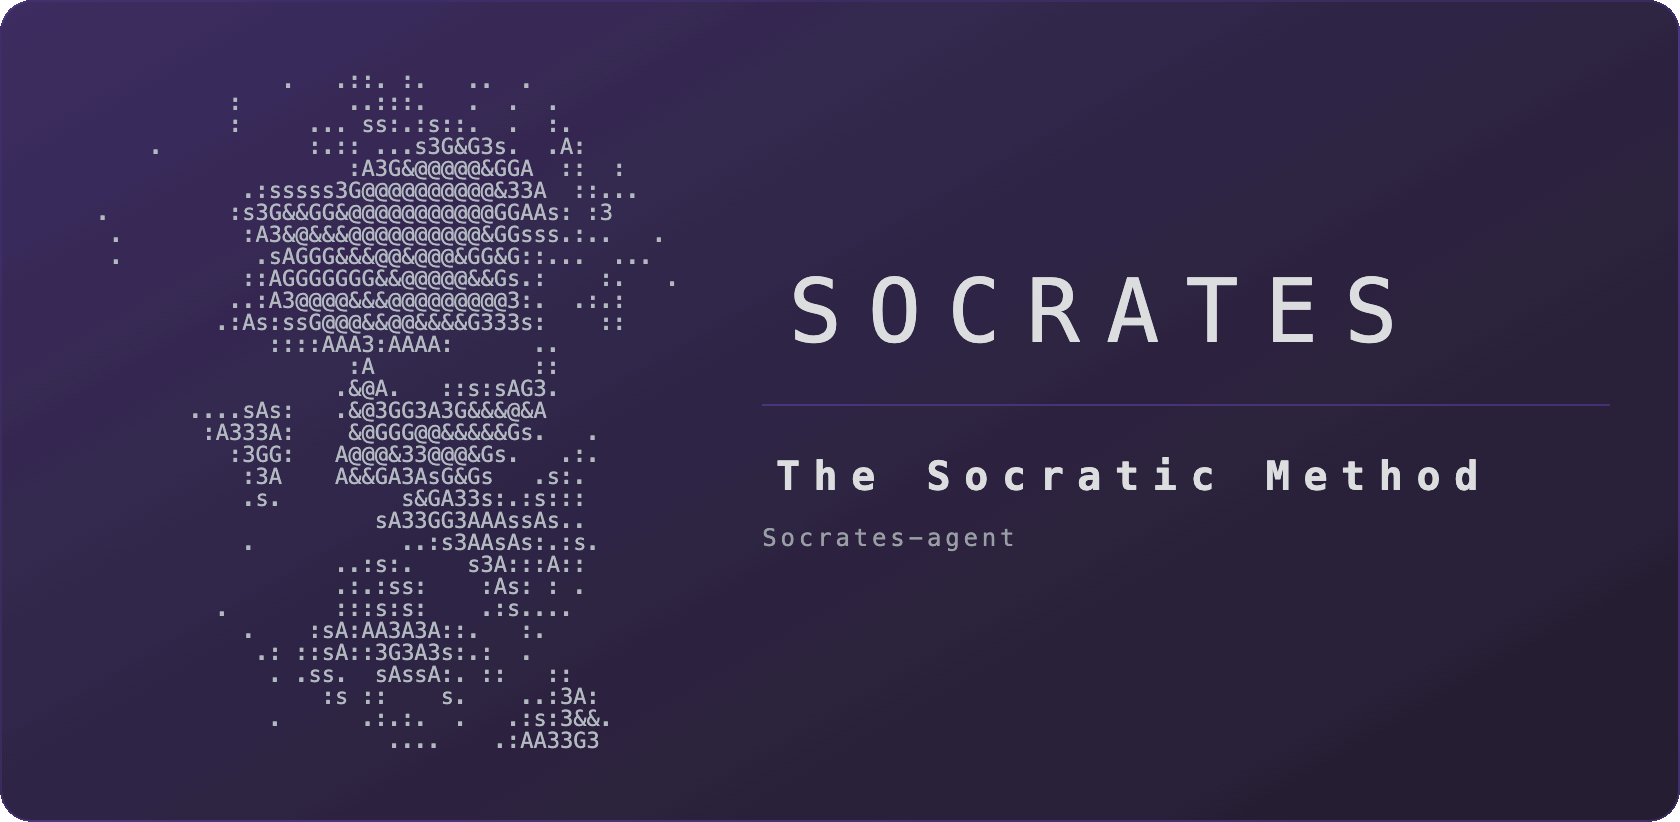
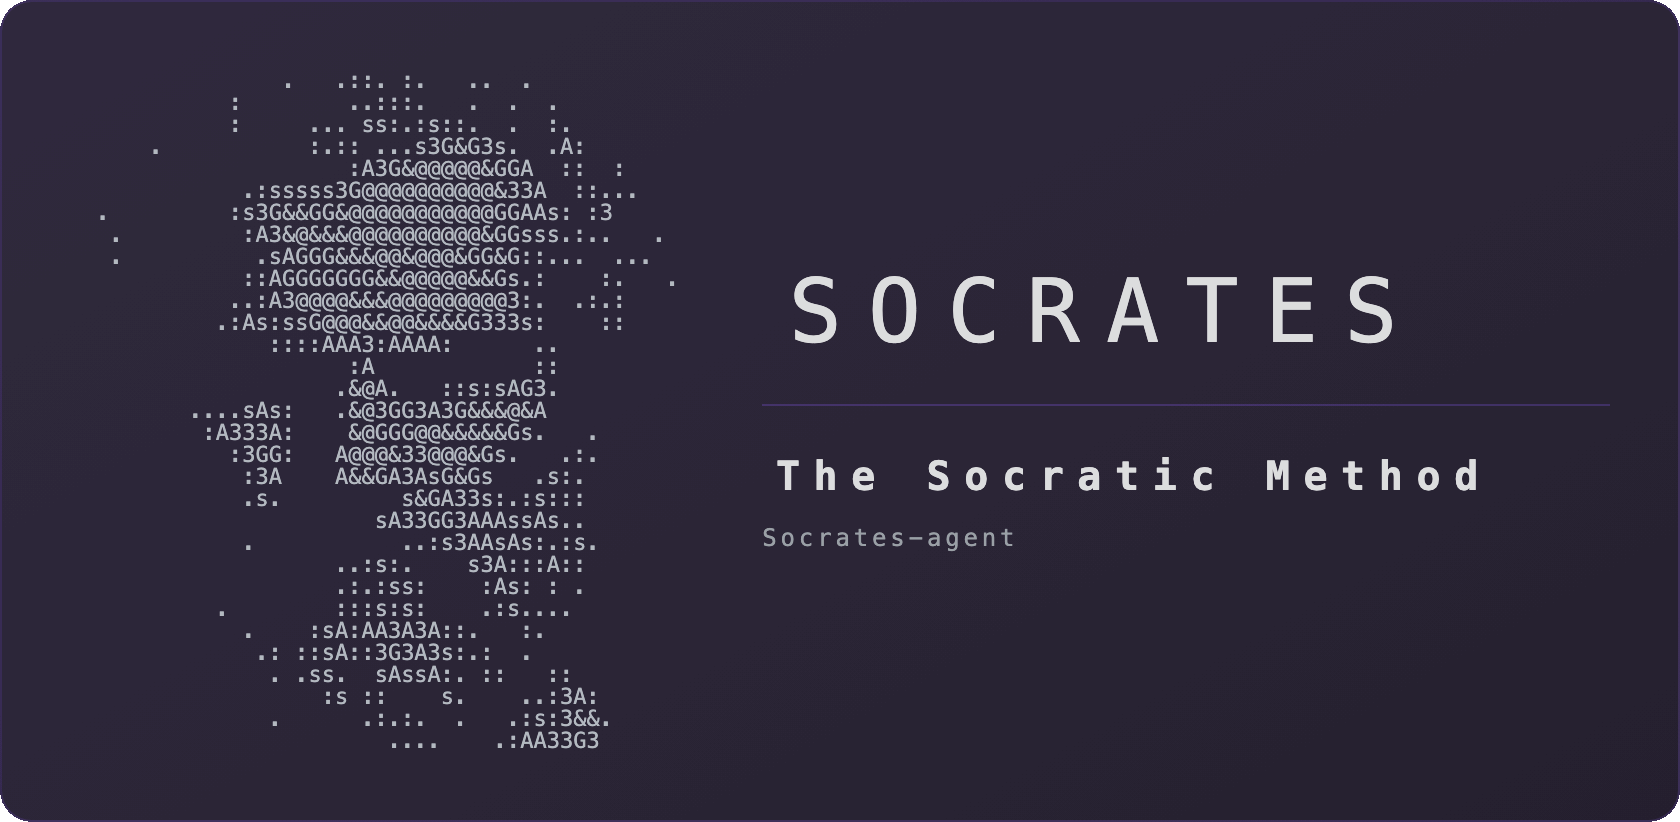
docs(v0.16.6): Hero 底色换成读者点名的那个紫 #30293D
上一版按 styles.css:559-565 的 color-mix(accent 24%, #241E30) 算出 #3C2D60，
读者退回：「太浅」。量了才知道是两条——亮 8 个明度点，饱和度高 16 个点
(H257 S36 L28 对 H261 S20 L20)。饱和度那条是主犯：高饱和的强调色直接当底色
兑，在插件里被周围的暗 UI 压着看不出来，单独摆在白页上就显廉价。

#30293D 不是审美偏好，是插件在读者主题下的实际底色——shot-01-splash.png 里
22.5% 的像素就是这个值，铺满启动卡上半幅。

TINTS 不再让代码去算，直接存三个色标。默认档 noble：
  #30293D 0% → #2A2436 60% → #241F2E 100%   (L 20.0 / 17.6 / 15.0)
色相饱和度全钉死在参考色上，只动明度，整张卡只有一个紫；参考色本身就是最亮
的那一端，卡上没有一块底色比它更浅。另留 noble-lift 和照搬公式的 faithful。

边框 0.22 → 0.18（styles.css:569 的原值；读者样图描边 #3D315D 反解 α≈0.16
也对得上），分隔线 0.30 → 0.26。ACCENT 不再参与底色，只管边框和分隔线。

两条 assert 钉住这些字面量：faithful 必须等于公式算出来的值；noble 两档每个
色标对 REFERENCE 的色相偏差 ≤1.5°、饱和度 ≤1.0。第二条真拦下过一次——
noble-lift 尾色原写 #262131，H258.75 差 2.25°，低明度下一个 LSB 就能推走两度。

实测：最亮端底色 #2F283D（对参考色 ΔRGB 1.4）、1680×822、70.4/69.6 KB、
各连跑两次 md5 一致、肖像区 7.70:1、右栏 11.88:1、四角 alpha 0。

Changed region(s): [[0.0, 0.0, 0.4333, 0.517], [0.9905, 0.0304, 1.0, 0.6083]]

diff --git a/scripts/render-hero.py b/scripts/render-hero.py
@@ -43,6 +43,7 @@ src/views/splash.ts:74 的判断同源——那里写着「字符画只用在肖
 from __future__ import annotations
 
 import argparse
+import colorsys
 import html
 import io
 import re
@@ -74,32 +75,43 @@ PORTRAITS = {"narrow": ("PORTRAIT_NARROW", 11), "wide": ("PORTRAIT_WIDE", 11)}
 WORDMARKS = {"wide": "WORDMARK_WIDE", "narrow": "WORDMARK_NARROW", "text": None}
 
 # 这张卡不引用 styles.css：那是插件的运行期样式，会随版本变；README 的产物必须能在
-# 任何一个 commit 上原样重出。下面的色值按 styles.css:559-565 那套公式**算**出来，
-# 不是手调的：
-#     background: linear-gradient(150deg,
-#       color-mix(accent 16%, base) 0%, color-mix(accent 4%, base) 60%, base 100%)
-#     border:     1px solid color-mix(accent 18%, transparent)
-# README 里没有用户强调色，所以把 accent 冻结成演示截图里那一档。
+# 任何一个 commit 上原样重出。所以色值全部落成字面量，且每一个都说得出出处。
 #
-# ACCENT 是**量出来的**：docs/img/shot-01-splash.png 里最常见的饱和紫，出现 260 次,
-# 就是「问」按钮和状态点的颜色。这样 hero 和 §2 起那一批界面图是同一个色系。
+# ACCENT 是**量出来的**：docs/img/shot-01-splash.png 里最常见的饱和紫，出现 260 次，
+# 就是「问」按钮和状态点的颜色。它在这里只管边框和分隔线，不再参与底色。
 # 标语取插件 i18n 里那一条，不另起炉灶：src/i18n/zh.ts 的 splashTagline。
 TAGLINE = "苏格拉底学习法"
 
 ACCENT = (0x8A, 0x5C, 0xF6)
 
-# 三档底色，每档是 (base, top_ratio, mid_ratio)：base 是渐变尾端的纯色，两个比例
-# 按插件那条 color-mix 公式把 ACCENT 兑进 base。插件原式是 16%/4% 兑进中性灰
-# #1E1E1E，尾段因此褪成灰——那是因为它嵌在暗色 UI 里，褪成灰才不抢戏。
-# hero 是白页上的孤岛，尾段一褪灰整张卡就没了色相，所以 base 本身也要染紫。
+# 底色的锚是 REFERENCE，读者点名的那个紫。它不是审美偏好，是**插件在读者主题下的
+# 实际底色**：docs/img/shot-01-splash.png 里 22.5% 的像素恰好是这个值，铺满启动卡
+# 的整个上半幅。hero 用它，README 顶上那张卡就和读者打开插件第一眼看到的那张同色。
+#
+# 上一版（v0.16.5）走的是 styles.css:559-565 那条 color-mix(accent 24%, #241E30)，
+# 算出 #3C2D60 = H257 S36 L28。对着参考色 H261 S20 L20 一比：亮 8 个明度点、
+# 饱和度高 16 个点。「太浅」说的就是这两条——把高饱和的强调色直接当底色兑，
+# 出来的是廉价的紫；压住饱和度、压低明度，才是那个稳重的紫。
+REFERENCE = "#30293D"          # H261.0  S19.6  L20.0
+
+# 每档是 linear-gradient 的三个色标：0% / 60% / 100%。
+# noble 两档都钉死在参考色的色相与饱和度上（H261 S20），只动明度——
+# 整张卡因此只有一个紫，没有第二个色相混进来。
 TINTS = {
-    "violet-deep": ((0x24, 0x1E, 0x30), 0.24, 0.07),   # 默认：全程紫，仓里那张
-    "violet":      ((0x22, 0x1E, 0x2A), 0.16, 0.04),   # 同色系淡一档
-    "faithful":    ((0x1E, 0x1E, 0x1E), 0.16, 0.04),   # 照搬插件，前紫后灰
+    # 默认：参考色本身就是最亮的那一端，往尾部压到 L15。卡上没有任何一个像素
+    # 比读者点名的那个紫更浅——这一条是对「太浅」的直接回答。
+    "noble":      ("#30293D", "#2A2436", "#241F2E"),   # L 20.0 → 17.6 → 15.0
+    # 参考色挪到 60% 那个色标，顶端抬到 L24：渐变更看得出来，代价是左上角
+    # 比读者给的那个紫亮 4 个明度点。
+    "noble-lift": ("#393148", "#30293D", "#272132"),   # L 23.7 → 20.0 → 16.3
+    # 照搬 styles.css:559-565 的公式：color-mix(accent 16%/4%, #1E1E1E)。
+    # 尾段褪成中性灰——插件嵌在暗色 UI 里该这样，白页上的 hero 不该这样。
+    "faithful":   ("#2F2841", "#222027", "#1E1E1E"),
 }
 
 
 def _mix(fg, bg, r):
+    """color-mix(in srgb, fg r%, bg)。"""
     return tuple(int(round(f * r + b * (1 - r))) for f, b in zip(fg, bg))
 
 
@@ -107,14 +119,40 @@ def _hx(c):
     return "#%02X%02X%02X" % c
 
 
+def _hsl(hexstr):
+    c = tuple(int(hexstr[i:i + 2], 16) / 255 for i in (1, 3, 5))
+    h, l, s = colorsys.rgb_to_hls(*c)
+    return h * 360, s * 100, l * 100
+
+
+# faithful 那三个值是上面那条公式算出来的，写成字面量只为好 grep。在这儿钉住：
+# 公式改了、字面量手抖改了，导入时就炸，不会悄悄出一张对不上出处的图。
+_FAITHFUL_BASE = (0x1E, 0x1E, 0x1E)
+assert TINTS["faithful"] == (_hx(_mix(ACCENT, _FAITHFUL_BASE, 0.16)),
+                             _hx(_mix(ACCENT, _FAITHFUL_BASE, 0.04)),
+                             _hx(_FAITHFUL_BASE)), TINTS["faithful"]
+
+# noble 两档只准动明度。色相/饱和度一旦漂了，卡上就会出现第二个紫，
+# 那正是上一版被读者退回的毛病。
+for _name in ("noble", "noble-lift"):
+    _rh, _rs, _ = _hsl(REFERENCE)
+    for _stop in TINTS[_name]:
+        _h, _s, _ = _hsl(_stop)
+        assert abs(_h - _rh) <= 1.5 and abs(_s - _rs) <= 1.0, (_name, _stop, _h, _s)
+
+
 def palette(tint):
-    """按插件公式算出这一档的渐变、边框和分隔线。"""
-    base, top, mid = TINTS[tint]
+    """这一档的渐变、边框、分隔线。"""
+    top, mid, base = TINTS[tint]
     return {
-        "GRAD": "linear-gradient(150deg,%s 0%%,%s 60%%,%s 100%%)"
-                % (_hx(_mix(ACCENT, base, top)), _hx(_mix(ACCENT, base, mid)), _hx(base)),
-        "BORDER": "rgba(%d,%d,%d,0.22)" % ACCENT,
-        "RULE": "rgba(%d,%d,%d,0.30)" % ACCENT,
+        "GRAD": "linear-gradient(150deg,%s 0%%,%s 60%%,%s 100%%)" % (top, mid, base),
+        # 18% 是 styles.css:569 的原值（border: color-mix(accent 18%, transparent)）。
+        # 实测也对得上：读者那张样图圆角上的描边合成后是 #3D315D，反解 α≈0.16。
+        # 上一版用的 0.22 既不是原值也偏亮，跟着这次一起改回去。
+        "BORDER": "rgba(%d,%d,%d,0.18)" % ACCENT,
+        # 分隔线是 hero 自己加的（插件那张竖排卡没有），没有可照搬的原值；
+        # 底色压暗之后 0.30 显得跳，收到 0.26。
+        "RULE": "rgba(%d,%d,%d,0.26)" % ACCENT,
     }
 TEMPLATE = """<!doctype html>
 <html><head><meta charset="utf-8"><style>
@@ -232,7 +270,7 @@ def build_html_col(portrait: str, word: str, fp: float, fw: float,
 
 
 def build_html(portrait: str, word: str, fp: float, fw: float, gap: float,
-               tint: str = "violet-deep", tagline: str = TAGLINE) -> str:
+               tint: str = "noble", tagline: str = TAGLINE) -> str:
     if word is None:
         block = '<div id="wordtext">SOCRATES</div>'
     else:
@@ -336,9 +374,10 @@ def main() -> None:
                          "横排右栏里认不出字母，见模块头")
     ap.add_argument("--gap", type=float, default=41.5,
                     help="肖像与右栏之间的间距；字标字号由剩下的宽度反算")
-    ap.add_argument("--tint", choices=sorted(TINTS), default="violet-deep",
-                    help="底色档位：violet-deep=全程紫（默认，仓里那张就是它）；"
-                         "violet=同色系但淡一档；faithful=照搬插件公式，尾段褪成灰")
+    ap.add_argument("--tint", choices=sorted(TINTS), default="noble",
+                    help="底色档位：noble=以参考色 %s 为最亮端（默认，仓里那两张）；"
+                         "noble-lift=参考色摆中间、顶端再抬一档；"
+                         "faithful=照搬插件 color-mix 公式，尾段褪成灰" % REFERENCE)
     ap.add_argument("--tagline", default=TAGLINE,
                     help="卡片上那句标语，默认取 src/i18n/zh.ts 的 splashTagline")
     ap.add_argument("--no-quantize", action="store_true")

diff --git a/docs/v0.16.6-Hero改成参考紫.md b/docs/v0.16.6-Hero改成参考紫.md
@@ -1,0 +1,80 @@
+# v0.16.6 — Hero 底色换成读者点名的那个紫
+
+> 日期：2026-08-22。只动 `scripts/render-hero.py` 和 `docs/img/hero*.png`。
+> `src/` `pen/` `styles.css` `manifest.json` `versions.json` 一行不动，不发 Release。
+> 插件 semver 仍是 `0.13.1`。接上一版 [v0.16.5](v0.16.5-Hero标语与紫底.md)。
+
+## 病在哪
+
+v0.16.5 的底色是按 `styles.css:559-565` 那条 `color-mix(accent 24%, #241E30)` 算出来的，
+出来 `#3C2D60`。读者退回了，原话是「这个紫色更高贵一些，你现在那个紫色有点太浅了」，
+并给了一张样图。
+
+量了两边就知道「太浅」是哪两条：
+
+| | 色相 | 饱和度 | 明度 |
+| --- | ---: | ---: | ---: |
+| v0.16.5 的最亮端 `#3C2D60` | 257 | **36** | **28** |
+| 读者给的 `#30293D` | 261 | **20** | **20** |
+
+亮 8 个明度点，饱和度高 16 个点。**饱和度那条才是主犯**：把一支高饱和的强调色直接
+当底色兑，出来的是廉价的紫；压住饱和度、压低明度，才是那个稳重的紫。上一版的公式
+没错，错在拿它当底色用——那条 `color-mix` 在插件里是嵌进暗色 UI 的，周围全是暗的，
+它显不出饱和；单独摆在白页上就显了。
+
+## 改成什么
+
+`#30293D` 定为 `REFERENCE`。它不是审美偏好，是**插件在读者主题下的实际底色**：
+`docs/img/shot-01-splash.png` 里 22.5% 的像素恰好是这个值，铺满启动卡的整个上半幅。
+读者截给我的，就是他自己每天打开插件看到的那张卡。hero 用它，README 顶上那张卡和
+读者第一眼看到的那张就是同一个紫。
+
+`TINTS` 不再存 `(base, ratio, ratio)` 让代码去算，改成直接存三个色标。默认档 `noble`：
+
+```
+linear-gradient(150deg, #30293D 0%, #2A2436 60%, #241F2E 100%)
+                        L 20.0      L 17.6      L 15.0
+```
+
+三个色标的**色相与饱和度全部钉死在参考色上（H261 S20），只动明度**——整张卡因此
+只有一个紫，不会混进第二个色相。而且参考色本身就是最亮的那一端：卡上没有任何一块
+底色比读者点名的那个紫更浅，这是对「太浅」的直接回答。
+
+另加一档 `noble-lift`（`#393148 → #30293D → #272132`），把参考色挪到中间、顶端再抬
+4 个明度点，渐变更看得出来。没选它，因为它的左上角还是比读者给的那个紫亮。
+`faithful` 保留，那是照搬插件公式的对照组。
+
+顺手修回两个偏亮的值：
+
+- **边框 `0.22 → 0.18`。** 18% 是 `styles.css:569` 的原值
+  （`border: 1px solid color-mix(in srgb, var(--interactive-accent) 18%, transparent)`），
+  上一版的 0.22 既不是原值也偏亮。实测也对得上：读者样图圆角上的描边合成后是
+  `#3D315D`，按 `ACCENT` 反解 α ≈ 0.16。
+- **分隔线 `0.30 → 0.26`。** 这条线是 hero 自己加的（插件那张竖排卡没有分隔线），
+  没有可照搬的原值；底色压暗之后 0.30 显得跳。
+
+`ACCENT = #8A5CF6` 不变，但它现在只管边框和分隔线，**不再参与底色**。
+
+## 两条 assert
+
+色值全部落成字面量了，所以得有东西钉住它们，否则半年后没人知道 `#2A2436` 是怎么来的：
+
+1. `faithful` 那三个值必须等于 `color-mix(accent 16%/4%, #1E1E1E)` 的计算结果。
+   公式改了、字面量手抖改了，导入时就炸。
+2. `noble` / `noble-lift` 的每个色标，色相偏差 ≤ 1.5°、饱和度偏差 ≤ 1.0，对着 `REFERENCE` 算。
+   这条真的拦下过一次：`noble-lift` 的尾色第一版写的 `#262131`，H258.75，差 2.25° ——
+   8 位色在低明度下一个 LSB 就能把色相推走两度。换成 `#272132`（H261.2）才过。
+
+## 验证（全部实跑）
+
+| 项 | 结果 |
+| --- | --- |
+| 色准 | 成图最亮端底色 `#2F283D`，对参考色 ΔRGB = 1.4（192 色量化的漂移），肉眼同色 |
+| 尺寸 | 两张都 `1680×822` = `840×411` 的整 2 倍 |
+| 体积 | 70.4 KB / 69.6 KB（上一版 79.1 / 80.8），预算 ≤ 120 KB。渐变跨度变窄，色阶变少，所以更小 |
+| 可复现 | 各连跑两次，md5 一致：`1cb029d9…` / `a2d19ed5…` |
+| 对比度 | 肖像区 7.70:1、右栏 11.88:1（上一版 7.64 / 11.80），门槛 ≥ 6.0 |
+| 圆角 | 四角 `alpha == 0` |
+
+README 没改：`alt` 里写的是「紫色渐变卡片」，两条重跑命令的参数也没变（默认档换了名字，
+但裸跑 `python scripts/render-hero.py` 出来的仍旧是 `docs/img/hero.png` 本身）。
